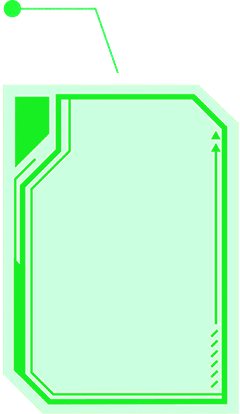
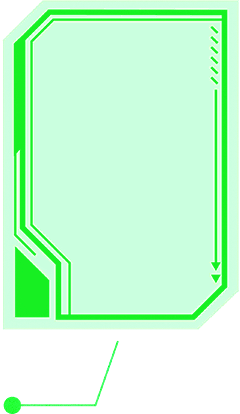
Armado del nivel 1, ademas de agregar los demas nombres de los niveles en la pagina principal.

diff --git a/CSS/styleNivel1.css b/CSS/styleNivel1.css
@@ -35,10 +35,8 @@ body {
 
     text-shadow:
     0 0 2px  var(--verde-fosforo),
-    0 0 6px  var(--verde-fosforo),
-    0 0 14px #00cc33;
-
-    
+    0 0 0  var(--verde-fosforo),
+    0 0 0 #00cc33;
 }
 
 .bordeOscuro {
@@ -50,7 +48,7 @@ body {
     transparent 40%,
     rgb(0, 0, 0) 100%
     );
-    z-index: 9998;
+    z-index: 9999;
 }
 
 
@@ -76,13 +74,124 @@ body {
 }
 
 .panelPrincipal {
-    background-image: url('../Imagenes/Panel\ con\ imagen\ \(sin\ antena\).png');
-    background-repeat: no-repeat;
-    padding: 2rem;
-    color: var(--verde-fosforo);
+    width: 440px;
+    margin: 100px auto;
+    
 }
 
-.datosExtra{
+article h3 {
+    text-align: center;
+    /* Significados de los parametros */
+    /* arriba - derecha - abajo - izquierda */
+    margin: 10px 0 0 0;
+    font-weight: normal;
+}
+
+article p {
+    font-size: 17px;
+    margin: 0 0 0 11px;
+}
+
+article img {
+    margin: 0 auto 0 70px;
+    height: 150px;
+    width: 300px;
+}
+
+article a {
+    color: var(--verde-fosforo);
+
+    text-decoration: none;
+
+    text-shadow: 0 0 4px #33ff66, 0 0 0 #00cc33;
+
+    font-size: 17px;
+}
+
+article .jugar {
+    color: white;
+    text-shadow: 0 0 4px #33ff66, 0 0 0 #00cc33;
+    display: block;          /* deja de ser inline para aceptar margin auto */
+    margin: 0 0 0 auto;      /* arriba 0, derecha 0, abajo 0, izquierda auto → empuja a la derecha */
+    width: fit-content;      /* el enlace mide solo lo que mide su texto */
+    font-size: 30px;
+}
+
+article a:hover, a:focus {
+    color: #ccffcc;
+
+    outline: 2px solid var(--verde-fosforo);
+
+    outline-offset: 3px;
+}
+
+article .jugar:hover, .jugar:focus {
+    outline: none;
+}
+
+.ventanaNivel {
+    background-image: url('../Imagenes/Ventanas/Pop\ up\ extra.png');
+    background-size: 100% 100%; 
+    background-repeat: no-repeat;
+    position: fixed;
+    inset: 0;
+    pointer-events: none;
+    z-index: 9995;
+    top: 50%;
+    left: 50%;
+    transform: translate(-50%, -50%);
+    width: 500px;      /* ancho de la ventana */
+    height: 350px; 
+    padding: 2rem;
     
-    /*border: 10px solid red*/
+}
+
+.ventanaSecundaria {
+    background-image: url('../Imagenes/Ventanas/Panel\ con\ imagen.png');
+    
+    background-repeat: no-repeat;
+    position: fixed;
+    inset: 0;
+    pointer-events: none;
+    z-index: 9998;
+    top: 30%;
+    left: 86%;
+    transform: translate(-50%, -50%);
+    width: 500px;      /* ancho de la ventana */
+    height: 350px; 
+    padding: 2rem;
+
+    font-size: 20px;
+}
+
+.ventanaSecundaria p {
+    margin: 20px 10px;
+}
+
+.barraProgreso {
+    position: relative;
+    width: 34%;                          /* ocupa el ancho del panel */
+    height: 1.4rem;                       /* alto de la barra */
+    background-color: rgba(0, 0, 0, 0.5); /* riel vacío, oscuro */
+    border: 1px solid var(--verde-fosforo); /* borde verde a juego con el estilo */
+    border-radius: 0.2rem;
+    overflow: hidden;                     /* recorta el relleno a las esquinas */
+    margin-top: 1rem;                     /* separación respecto al párrafo */
+    box-sizing: border-box;
+    margin: 0 0 0 6px;
+}
+
+/* Relleno verde */
+.barraProgreso-relleno {
+    display: flex;
+    align-items: center;                  /* centra el texto verticalmente */
+    justify-content: flex-end;            /* texto pegado a la derecha */
+    padding-right: 0.5rem;
+    height: 100%;
+    background-color: #2e8b3d;            /* verde del relleno */
+    color: #ffffff;
+    font-size: 0.9rem;
+    box-shadow: 0 0 6px var(--verde-fosforo); /* glow sutil para integrarlo */
+    box-sizing: border-box;
+    transition: width 0.3s ease;          /* animación suave si cambia el valor */
 }

diff --git a/Niveles/nivel1.html b/Niveles/nivel1.html
@@ -10,7 +10,6 @@
     <link rel="preconnect" href="https://fonts.gstatic.com" crossorigin>
     <link href="https://fonts.googleapis.com/css2?family=Press+Start+2P&display=swap" rel="stylesheet">
 
-    <!-- VT323 -->
     <link rel="preconnect" href="https://fonts.googleapis.com">
     <link rel="preconnect" href="https://fonts.gstatic.com" crossorigin>
     <link href="https://fonts.googleapis.com/css2?family=Press+Start+2P&family=VT323&display=swap" rel="stylesheet">
@@ -21,35 +20,48 @@
     <div class="bordeOscuro" aria-hidden="true"></div>
 
     <div class="lineasHorizontales" aria-hidden="true"></div>
-    <section class="menu">
+
+    <div class="ventanaNivel" aria-hidden="true"></div>
+
+    <div class="ventanaSecundaria" aria-hidden="true">
+        <p>
+            Dificultad - Facil
+                <br>
+                Limite de tiempo: 60s 
+                <br>
+                Cant. enemigos: 10
+                <br>
+                Tiempo record: 30s
+        </p>
+        <div class="barraProgreso"
+            role="progressbar"
+            aria-valuenow="50"
+            aria-valuemin="0"
+            aria-valuemax="100"
+            aria-label="Progreso del Nivel 1">
+        <span class="barraProgreso-relleno" style="width: 100%;">100%</span>
+    </div>
+    </div>
+    
+
+
+    <section>
+
         <article class="panelPrincipal">
-            <h3> Nivel 1 - ¿Donde estoy? </h3>
-            <p class="descripcion"> 
-                Descripcion
-            </p> 
             
-            <!--
-            Titulo del nivel B
-            Barra de progreso con porcentaje
-            Limite de tiempo
-            Descripcion del nivel
-            Tiempo record
-            Imagen de referencia del nivel
-            Opcion de regresar
-            Dificultad
-            Cantidad de enemigos
-            -->
-        </article>
-        <article class="panelSecundario" > 
-            <p class="datosExtra">
-                Dificultad - Facil
-                <br>
-                Limite de tiempo: 1 minuto 
-                <br>
-                Cantidad de enemigos:
-                <br>
-                Tiempo record:
-            </p>
+            <a class="volver" href="../index.html"> Volver </a>
+
+            <h3> Nivel 1 - ¿Donde estoy? </h3>
+
+            <image class="imgTitulo" src="../Imagenes/Niveles/espacio.jpg" width="400" high="400" />
+
+            <p class="descripcion"> 
+                El borde del universo. Aca terminan las reglas. 
+                
+            </p> 
+
+            <a class="jugar"> Jugar </a>
+
         </article>
     </section>
 </body>

diff --git a/index.html b/index.html
@@ -42,54 +42,54 @@
             <li>
                 <article class="nivel">
                     
-                    <a target="_blank" href="Niveles/nivel1.html"> ¿Dónde estoy?  </a>
+                    <a href="Niveles/nivel1.html"> ¿Dónde estoy?  </a>
                 </article>
             </li>
             <li>
                 <article class="nivel">
-                    
+                    <a > El ojo de la tormenta </a>
 
                 </article>
             </li>
             <li>
                 <article class="nivel">
-                    
+                    <a > El Gigante azul </a>
 
                 </article>
             </li>
             <li>
                 <article class="nivel">
-                    
+                    <a > La envidia de la galaxia </a>
 
                 </article>
             </li>
             <li>
                 <article class="nivel">
-                    
+                    <a > Las lunas de Galileo Galilei </a>
 
                 </article>
             </li>
             <li>
                 <article class="nivel">
-                    
+                    <a > La Curiosity mato a Rovers </a>
 
                 </article>
             </li>
             <li>
                 <article class="nivel">
-                    
+                    <a > Home, sweet home </a>
 
                 </article>
             </li>
             <li>
                 <article class="nivel">
-                    
+                    <a > No está hecha de queso </a>
 
                 </article>
             </li>
             <li>
                 <article class="nivel">
-                    
+                    <a > La Venus de Milo </a>
                 </article>
             </li>
             <li>
